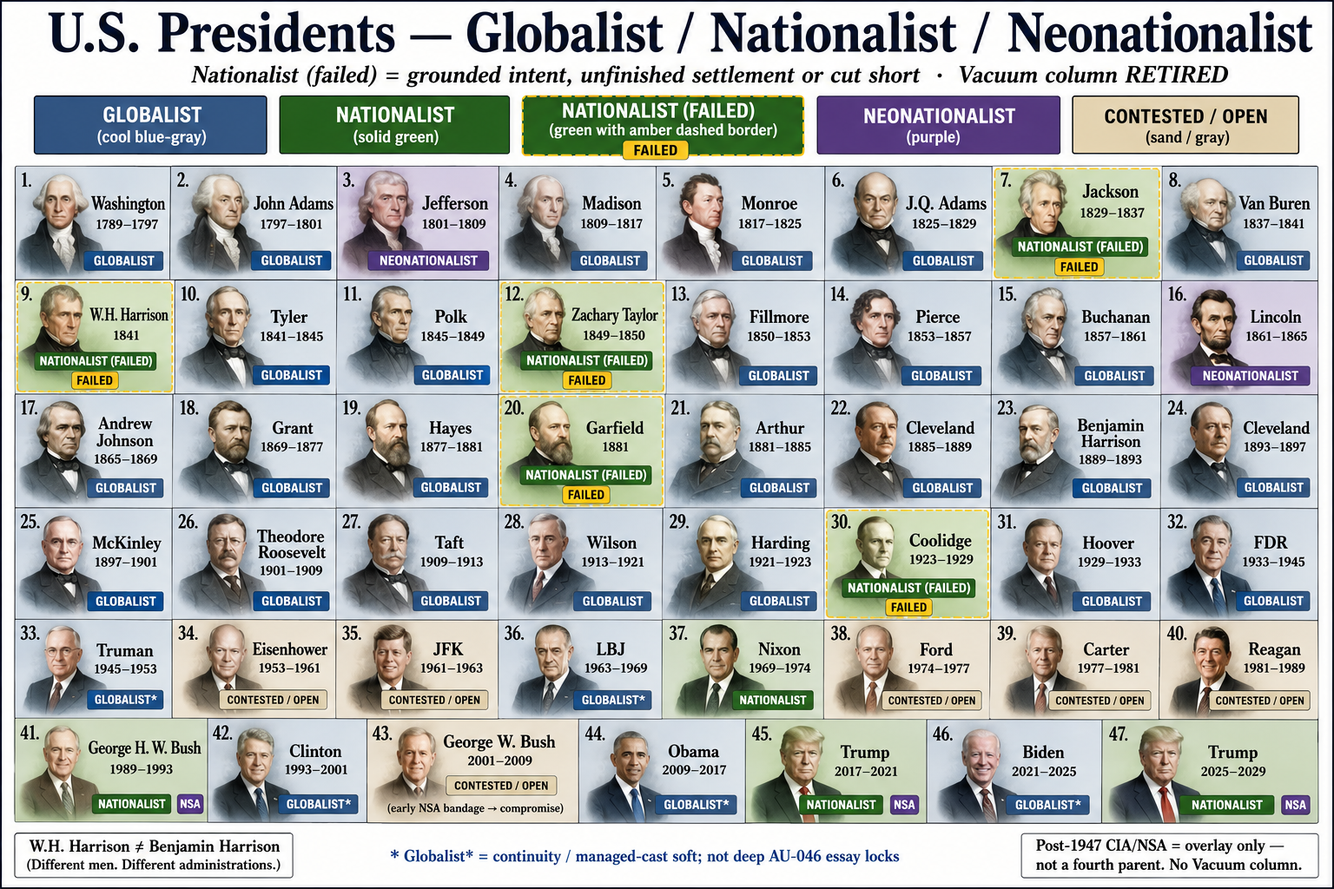
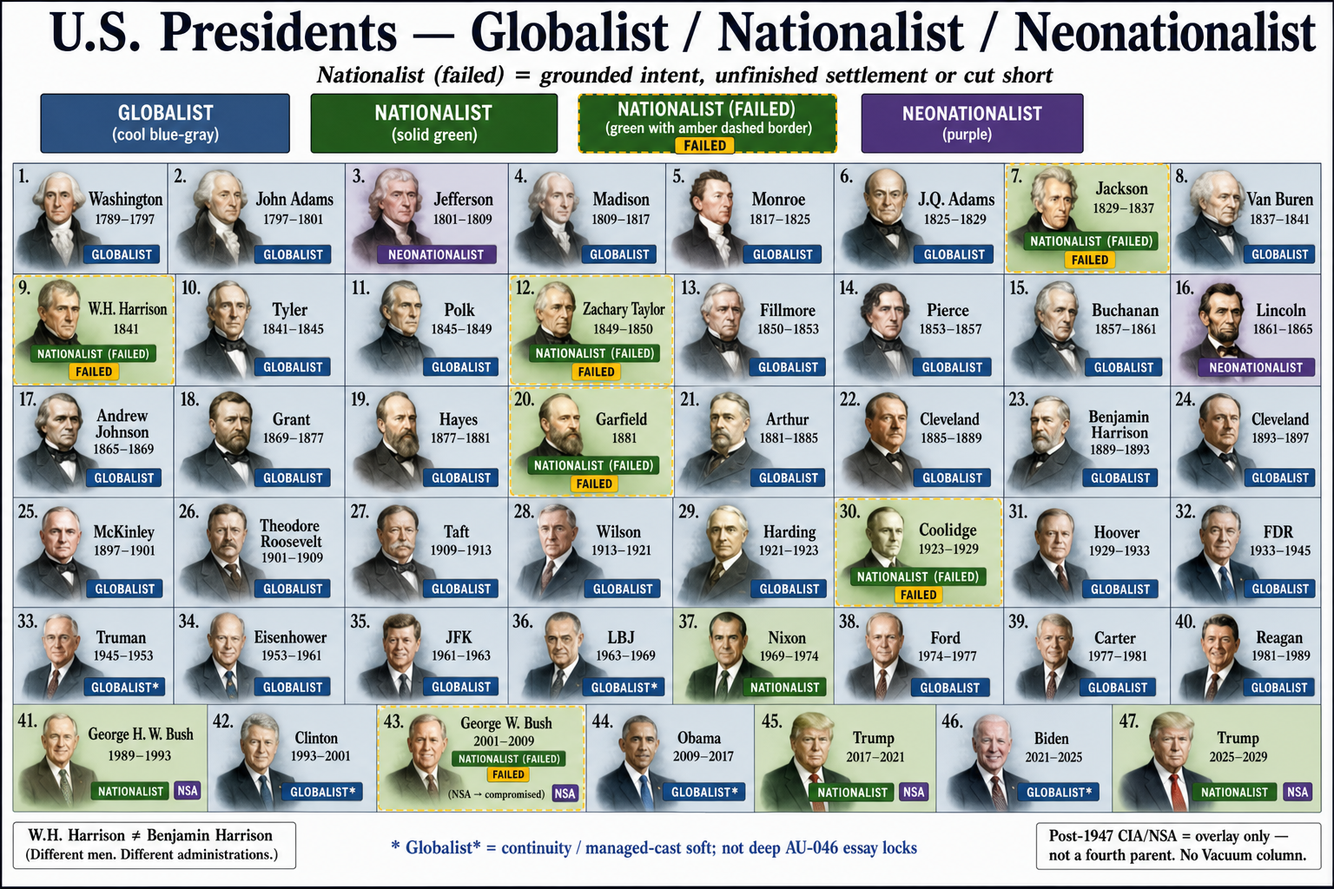
Retire Contested/Open; lock Ike/JFK/Reagan Globalist and GWB Nationalist-failed.
Refresh the AU-046 wall chart and hubs so Ford↔Carter read as rocking Globalists and George W. Bush scores NSA-aligned Nationalist who failed by compromise.

diff --git a/governance/war/investigations/presidential-alignment-globalist-vs-nationalist-investigation.md b/governance/war/investigations/presidential-alignment-globalist-vs-nationalist-investigation.md
@@ -1,18 +1,18 @@
 # Investigation: Presidential Alignment — Globalist vs Nationalist
 
-> **TL;DR:** Master taxonomy = **Globalist vs Nationalist** (+ **Neonationalist**: Jefferson, Lincoln). **Vacuum parent column retired** — cut-short tips that looked like fall-guy Vacuums score **Nationalist (failed)** (§10.1b). **Wall chart:** [`presidential-alignment-scorecard-au046.png`](/governance/war/presidential-alignment-scorecard-au046.png) (§10.0). **Rocking:** Cleveland↔Benjamin Harrison (§2.4). **Nationalist∩NSA** + sin-eater (§9). **Locks:** Washington/Adams Globalist; Jefferson+Lincoln Neonationalist; Madison→Buchanan Globalist **except Jackson** + **W.H. Harrison / Taylor** Nationalist (failed); **Garfield / Coolidge** Nationalist (failed); Johnson–Arthur (ex-Garfield) + Cleveland/B. Harrison + Harding + Progressive empire + Hoover + FDR Globalist; **Nixon / GHWB / Trump Nationalist**; GWB bandage→Epstein→Obama. Reader: [**Nationalists who failed**](/governance/war/nationalists-who-failed.md). Depression → **AU-047**. **AU-046.**
+> **TL;DR:** Master taxonomy = **Globalist vs Nationalist** (+ **Neonationalist**: Jefferson, Lincoln). **Wall chart:** [`presidential-alignment-scorecard-au046.png`](/governance/war/presidential-alignment-scorecard-au046.png) (§10.0). **Rocking:** Cleveland↔Benjamin Harrison; **Ford↔Carter** (§2.4). **Nationalist∩NSA** + sin-eater (§9). **Locks:** Washington/Adams Globalist; Jefferson+Lincoln Neonationalist; Madison→Buchanan Globalist **except Jackson** + **W.H. Harrison / Taylor** Nationalist (failed); **Garfield / Coolidge** Nationalist (failed); Johnson–Arthur (ex-Garfield) + Cleveland/B. Harrison + Harding + Progressive empire + Hoover + FDR Globalist; **Eisenhower / JFK / Reagan Globalist**; **Ford / Carter rocking Globalist**; **Nixon / GHWB / Trump Nationalist**; **GWB = Nationalist (failed) + NSA** (bandage then Epstein compromise). Reader: [**Nationalists who failed**](/governance/war/nationalists-who-failed.md). Depression → **AU-047**. **AU-046.**
 
-**Status:** Open — major scorecard parent locks in; research Qs (census cites, Lincoln plaque, etc.) still hunting; master graphic deferred until art pass.
+**Status:** Open — major scorecard parent locks in; research Qs (census cites, Lincoln plaque, etc.) still hunting.
 
 
-**Last updated:** 2026-08-07 — Wall chart shipped (§10.0); Vacuum retired; W.H. Harrison / Taylor / Garfield Nationalist (failed); Coolidge quote bank + reader article
+**Last updated:** 2026-08-07 — Contested/Open retired; Eisenhower/JFK/Reagan Globalist; Ford↔Carter rocking Globalist; GWB Nationalist (failed)+NSA; chart refreshed
 
 ---
 
 ## Guide (read order)
 
 1. Session capture — [§1](#1-authors-originating-thesis)
-2. Vocabulary — Nationalist / **Neonationalist** / Globalist / **Vacuum retired** / **puppet witting (§2.2)** / **immune kill (§2.3)** — [§2](#2-vocabulary--globalist--nationalist--neonationalist-nsa-cia-overlay)
+2. Vocabulary — Nationalist / **Neonationalist** / Globalist / **puppet witting (§2.2)** / **immune kill (§2.3)** / rocking (§2.4) — [§2](#2-vocabulary--globalist--nationalist--neonationalist-nsa-cia-overlay)
 3. Founding fork — Washington + **Jefferson** + **John Adams foil** — [§3](#3-founding-fork--washington-closed-door-federal-parchment)
 4. TONA window — Madison→Buchanan Globalist continuity (**Jackson** Nationalist-failed exception §4.4) — [§4](#4-tona-window--madison--buchanan-globalist-continuity-vacuum-bar-fails)
 5. Civil War / Lincoln — [§5](#5-civil-war--lincoln) (stature · **Black-identity inventory §5.3** · alignment)
@@ -97,6 +97,8 @@ Jefferson is **not** scored Nationalist despite pluralistic / proto-party fights
 
 **High-profile pawn rhyme:** Same family of motion as **Saddam** / **Hitler**-class seesaw assets — spectacular rise → strict consolidation / authority over populations fooled → wreck or blame theater ([AU-045 Saddam seesaw](/governance/war/investigations/presidency-decoupling-pattern-eisenhower-to-trump-investigation.md#123-saddam-seesaw-puppet--definitely-real-gold)). Cleveland and Harrison **engaged** the rocking as visible poles; they may not have realized full damage (**philosophically unwitting** on outcomes) while **passionately** arguing their eras. Parent: **Globalist** (both).
 
+**Ford ↔ Carter (Author lock 2026-08-07):** Same rocking grammar after Nixon. Soft history sells post-Watergate recovery rivalry. Parent for both: **Globalist** rocking poles — back-and-forth on a compromised board, not blank tips and not Nationalist repair.
+
 **Condition lock — only when both sides are fully compromised:** Rocking is **possible only** when **both** poles are under control. Otherwise a **rational human — or even an animal** — would sense the seesaw early and **get off**. Uncompromised tips break the motion.
 
 **Not rocking (antibody / repair grammar):**
@@ -104,10 +106,9 @@ Jefferson is **not** scored Nationalist despite pluralistic / proto-party fights
 | Specimen | Why not rocking |
 |----------|-----------------|
 | **Nixon** | Not a pole in a managed duel. Tried to **repair Asia damage** done under **Kennedy / Johnson**; grounded Nationalist tip — Watergate containment, not seesaw attrition ([AU-039](/governance/war/investigations/nsa-aligned-presidencies-nixon-reagan-trump-investigation.md)) |
-| **Ford (after Nixon)** | Not the opposite rocking pole either — contested tip years, not Cleveland↔Harrison alternation |
 | **NSA / antibody plans** | When an **antibody** plan is live, it is often so strong in the **revelation-of-the-method** sense that there is **no way to rock it** — the public is forced to see a real fork, not two fake neo-sides. Rocking returns when both party tickets are owned again |
 
-**Other rhyme specimens (Author catalog — not all locked as full Cleveland pairs):** modern **bipartisan** “nothing major / same agenda” theater (war authorizations, surveillance stacks, bailout continuity); managed Dem↔Rep brand fights that leave Fed / empire / Title-class machinery untouched. **Hoover → FDR** is **not** classic rocking — it is **one-way Globalist deepening** (tariff/tax/relief dogma into New Deal fishery), not a popular sweep that later returns the prior pole unchanged. Scorecard: [§10](#10-master-scorecard-stubs).
+**Other rhyme specimens (Author catalog — not all locked as full Cleveland pairs):** modern **bipartisan** “nothing major / same agenda” theater (war authorizations, surveillance stacks, bailout continuity); managed Dem↔Rep brand fights that leave Fed / empire / Title-class machinery untouched. **Hoover → FDR** is **not** classic rocking — it is **one-way Globalist deepening** (tariff/tax/relief dogma into New Deal fishery), not a popular sweep that later returns the prior pole unchanged. **Eisenhower** and **JFK** score **Globalist** on argued machine/war-state continuity — **not** a Ford↔Carter rocking pair. **Reagan** scores **Globalist** (CIA-carrier / RINO turn lean — [AU-045 §8](/governance/war/investigations/presidency-decoupling-pattern-eisenhower-to-trump-investigation.md#8-reagan-revolution--planned-cast-voter-conversion-rino-turn)). Scorecard: [§10](#10-master-scorecard-stubs).
 
 **Falsifiers:** A true two-pole alternation that delivers **lasting** Nationalist rights geometry (natives included / limited federal / keep-word) would break the “nothing major accomplished” giveaway.
 
@@ -377,7 +378,7 @@ Do **not** re-litigate Truman→Trump here. Point:
 |-----|--------|---------|------|
 | **Nixon** | **Nationalist** | **None / not NSA-aligned** | Pure Nationalist; NSA still waking (often CIA-order cleanup). Priorities **inverted** after resignation threat. **Pentagon Papers** SCOTUS lane = early antibody win; Watergate cited to **absolve Ellsberg** — Nixon on the wrong end of rising antibody law. His containment taught NSA-aligned entities why **both parties** would need rules + sin-eating in a blackmail-compromised government. |
 | **GHW Bush** | **Nationalist** | **NSA-aligned** | Antibody **born inside** CIA disease who chose to fight. **1991** = Nationalist tip running **necessary containment / sin-eater** on a **board CIA lit** (dinar / settlement war) — not “CIA product tip.” Kept America’s interests even when media made them unsayable; feared **Clinton** chaos-for-order cast. |
-| **G.W. Bush** | Contested → **compromised** (open) | **NSA-aligned family** early | **2001–~2005 = strong NSA bandage** (§9.1a): Tonkin/Hanyok declass, Mars RV daylight fight, PP culture push that mostly failed. Mid/late term ruined — Author: **Epstein blackmail compromise** is the fit that explains collapse **while still in office**; enables next tips; **Obama** already prepared as automated ideology cast. |
+| **G.W. Bush** | **Nationalist (failed)** | **NSA-aligned** | **2001–~2005 = strong NSA bandage** (§9.1a): Tonkin/Hanyok declass, Mars RV daylight fight, PP culture push that mostly failed. Mid/late term ruined — Author: **Epstein blackmail compromise** owns the tip **while still in office**; that compromise is the failure mode (not cut-short death, not Jackson-class money foresight alone). Enables next tips; **Obama** already prepared as automated ideology cast. |
 | **Trump** | **Nationalist** | **NSA-aligned** | Every action for America + **kept word** — not Vacuum puppet, not Globalist CO. Epstein-network hinge (tipster / not owned — [Epstein crosslinks §5](/events/false_flag/investigations/epstein-blackmail-network-9-11-crosslinks-investigation.md#5-trump-netanyahu-likud)); public presidency = [*It was the only way*](/governance/war/it-was-the-only-way.md). |
 
 ### 9.1a G.W. Bush — 2001–~2005 NSA “bandage” then Epstein hinge (Author lock 2026-08-07)
@@ -416,7 +417,7 @@ Do **not** re-litigate Truman→Trump here. Point:
 |---------------|------------|-----------------|
 | CIA-aligned / carrier / managed cast | Disease / war-state cast | Often **Globalist** — confirm per row |
 | NSA-aligned / cleanup tip | Antibody inside the disease | **Usually overlaps Nationalist**; may include **sin-eater** beats; never auto-badge without keep-word / America-first read |
-| Contested tip (overlay) | **Overlay only** when neither camp allowed a real tip to voters | Score parent on argued policies / cut-short Nationalist-failed grammar — **not** a Vacuum column |
+| Contested tip (overlay) | **Retired 2026-08-07** — do not use as a parent or legend badge | Score every tip Globalist / Nationalist / Neonationalist (with Nationalist-failed overlay when needed) |
 
 **Graphic caption (required when PNG ships):** *NSA antibody overlaps Nationalist agendas; sin-eater moves are the hinge. CIA/NSA = disease fight inside the machine — chips are not party labels.*
 
@@ -428,7 +429,7 @@ Author fill. Deep essays only where marked; others are lean stubs.
 
 ### 10.0 Wall chart (shipped 2026-08-07)
 
-![U.S. Presidents alignment scorecard — Globalist / Nationalist / Neonationalist; Vacuum retired](/governance/war/presidential-alignment-scorecard-au046.png)
+![U.S. Presidents alignment scorecard — Globalist / Nationalist / Neonationalist](/governance/war/presidential-alignment-scorecard-au046.png)
 
 **File:** [`presidential-alignment-scorecard-au046.png`](/governance/war/presidential-alignment-scorecard-au046.png) · Reader: [Nationalists who failed](/governance/war/nationalists-who-failed.md) · Post-1947 overlay companion: [`cia-nsa-align-president-comparison.png`](/governance/war/cia-nsa-align-president-comparison.png)
 
@@ -436,19 +437,19 @@ Author fill. Deep essays only where marked; others are lean stubs.
 
 | Check | Result |
 |-------|--------|
-| Three parents only; **Vacuum retired** | **Pass** — legend + footer |
+| Three parents only; no Contested/Open legend | **Pass** |
 | **Neonationalist** = Jefferson + Lincoln only | **Pass** |
-| **Nationalist (failed)** = Jackson, W.H. Harrison, Taylor, Garfield, Coolidge | **Pass** — FAILED border tag |
-| **Nationalist** = Nixon; GHWB + Trump (+ NSA chip); no NSA on Nixon | **Pass** |
-| **GWB** Contested + early NSA bandage → compromise note | **Pass** |
+| **Nationalist (failed)** = Jackson, W.H. Harrison, Taylor, Garfield, Coolidge, **GWB** | **Pass** — FAILED border; GWB + NSA chip |
+| **Nationalist** = Nixon (no NSA); GHWB + Trump (+ NSA) | **Pass** |
+| **Eisenhower / JFK / Reagan** Globalist | **Pass** |
+| **Ford / Carter** Globalist (rocking pair) | **Pass** |
 | **W.H. Harrison ≠ Benjamin Harrison** footer | **Pass** |
-| Cleveland ×2 (terms) + B. Harrison Globalist rocking | **Pass** |
-| Contested/Open = Eisenhower, JFK, Ford, Carter, Reagan (+ GWB) | **Pass** |
-| Soft **Globalist\*** = Truman, LBJ, Clinton, Obama, Biden (not deep essay locks) | **Pass** — footnote matches desk |
-| Dual Trump cells (2017–21 + 2025–) | **Accept** — calendar continuity; same Nationalist+NSA parent |
-| Invented counts / fake Vacuum / wrong Neonationalist sprawl | **None found** |
+| Cleveland ×2 + B. Harrison Globalist rocking | **Pass** |
+| Soft **Globalist\*** = Truman, LBJ, Clinton, Obama, Biden | **Pass** |
+| Dual Trump cells (2017–21 + 2025–) | **Accept** — same Nationalist+NSA parent |
+| Contested/Open cells remaining | **None found** |
 
-**Open after chart (unchanged):** Eisenhower / JFK / Ford / Carter / Reagan parent essays; Biden soft Globalist\* only; GWB parent still Contested.
+**Open after chart:** deep parent essays for Eisenhower / JFK / Reagan; Biden remains soft Globalist\* only.
 
 | President / era | Lean (stub) | Notes |
 |-----------------|-------------|-------|
@@ -456,18 +457,22 @@ Author fill. Deep essays only where marked; others are lean stubs.
 | **Jefferson** | **Neonationalist** | Pure limited-gov / plurality vision; **disqualified** by Declaration savages + native/apartheid hole |
 | **John Adams** | **Globalist** | Jefferson’s Federalist **foil**; Sedition/centralizing lean; Federalist↔Democrat eventually **intertwined** into shared federal/world-order vision — **not** sovereign-citizen rights orientation (§3.4) |
 | **Jackson** | **Nationalist (failed)** | Grounded Bank War intent; no durable crisis solution — central bank returns later; Removal = inclusion failure; **not** Globalist puppet — §4.4. Black-identity/whitewash Author/open |
-| **W.H. Harrison / Taylor / Garfield** | **Nationalist (failed)** | Cut short by death; unfinished missions; early deep-state lesson — soft “Vacuum fall guy” packaging retired → §10.1b |
+| **W.H. Harrison / Taylor / Garfield** | **Nationalist (failed)** | Cut short by death; unfinished missions; early deep-state lesson — §10.1b |
 | **Madison–Buchanan (TONA window)** | **Globalist** (except **Jackson**, **W.H. Harrison**, **Taylor**) | Passionate era tips; failed sovereign/TONA reset — §4; cut-short exceptions §10.1b |
 | **Lincoln** | **Neonationalist** | New America-vision; white-to-blame war read; post-CW race-blind **under federal**; not slavery-causation (Author); carceral XIII / forced-war parallel; §5.4 |
 | **Coolidge** | **Nationalist (failed)** | Blocked Fed/Congress stock-power grab; popular tip exits 1927 (“I do not choose to run”) — suspicious for Depression fork; **not** Globalist neglect — §10.1a |
 | **Gilded → Progressive (§10.1)** | **Mostly Globalist** | Johnson–Arthur (**ex-Garfield**) + **Cleveland/B. Harrison rocking** + McKinley–Wilson + Harding Globalist; **Coolidge** + **Garfield** exceptions |
-| **Herbert Hoover** | **Globalist** | Owns Smoot-Hawley / 1932 taxes / limited-relief dogma he argued hard; sincerity ≠ Vacuum ([§7.2a](#72a-herbert-hoover--globalist-author-lock-2026-08-07)); Fed board detail → [AU-047](/governance/genocide/investigations/great-depression-planned-genocide-fed-census-consolidation-investigation.md) |
+| **Herbert Hoover** | **Globalist** | Owns Smoot-Hawley / 1932 taxes / limited-relief dogma he argued hard; sincerity ≠ blank tip ([§7.2a](#72a-herbert-hoover--globalist-author-lock-2026-08-07)); Fed board detail → [AU-047](/governance/genocide/investigations/great-depression-planned-genocide-fed-census-consolidation-investigation.md) |
 | **FDR** | **Globalist** | New Deal state; war entry; health concealment |
 | **J. Edgar Hoover (FBI)** | **Globalist institution** | Body remover; not a president |
-| Truman→Trump | Parent + **CIA/NSA overlay** (§9) | **Nixon** Nationalist (no NSA); **GHWB + Trump** Nationalist+NSA; GWB NSA-family → compromise open; NSA alone ≠ auto-Nationalist; sin-eater named when needed |
+| **Eisenhower** | **Globalist** | CIA weaponization / Ajax / political-warfare continuity — [AU-045](/governance/war/investigations/presidency-decoupling-pattern-eisenhower-to-trump-investigation.md) |
+| **JFK** | **Globalist** | Machine/war-state continuity tip; detail fights are distraction — prefer [JFK article](/events/jfk/jfk-was-never-assassinated.md) |
+| **Ford / Carter** | **Globalist** (rocking) | Post-Nixon seesaw pair — §2.4 |
+| **Reagan** | **Globalist** | CIA-carrier / RINO turn lean — [AU-045 §8](/governance/war/investigations/presidency-decoupling-pattern-eisenhower-to-trump-investigation.md#8-reagan-revolution--planned-cast-voter-conversion-rino-turn) |
+| Truman→Trump | Parent + **CIA/NSA overlay** (§9) | **Nixon** Nationalist (no NSA); **GHWB + Trump** Nationalist+NSA; **GWB** Nationalist (failed)+NSA; NSA alone ≠ auto-Nationalist; sin-eater named when needed |
 | **Nixon** | **Nationalist** | No real NSA alignment; Watergate / Ellsberg chronology — §9.1 |
 | **GHW Bush** | **Nationalist** + **NSA** | Sin-eater tip on CIA-lit 1991 board — §9.1 · [AU-045 §10](/governance/war/investigations/presidency-decoupling-pattern-eisenhower-to-trump-investigation.md#10-ghw-bush--nationalist-tip-nsa-sin-eater-on-cia-lit-board) |
-| **G.W. Bush** | Contested / compromised (open) + early **NSA** | **2001–~2005 bandage** then Epstein hinge — §9.1a |
+| **G.W. Bush** | **Nationalist (failed)** + **NSA** | Bandage then Epstein compromise failure — §9.1a |
 | **Trump** | **Nationalist** + **NSA** | Keep-word America-first; Epstein tipster hinge; [*It was the only way*](/governance/war/it-was-the-only-way.md) |
 
 ### 10.1 Gilded → Progressive — split lock (Author, revised 2026-08-07)
@@ -550,7 +555,7 @@ Soft history truncates him to Silent Cal + “business of America.” Keep the *
 
 **Reader:** [Nationalists who failed](/governance/war/nationalists-who-failed.md).
 
-**Graphic:** shipped — [`presidential-alignment-scorecard-au046.png`](/governance/war/presidential-alignment-scorecard-au046.png) (§10.0). Three parent columns + Contested/Open + NSA overlay chips; Vacuum retired.
+**Graphic:** shipped — [`presidential-alignment-scorecard-au046.png`](/governance/war/presidential-alignment-scorecard-au046.png) (§10.0). Three parent camps + Nationalist-failed overlay + NSA chips; Contested/Open legend removed.
 
 ---
 
@@ -686,7 +691,8 @@ Keywords: #PresidentialAlignment #Globalist #Nationalist #Neonationalist #Jeffer
 - Session 2026-08-07 (later): **Coolidge → Nationalist (failed)** — refused Fed/Congress stock regulation as power grab vs states; soft history inverts to Depression villain; *I do not choose to run* (1927) while popular = suspicious forced exit; Hoover remains Globalist.
 - Session 2026-08-07 (later): Coolidge **quote bank** in §10.1a; reader article [nationalists-who-failed.md](/governance/war/nationalists-who-failed.md).
 - Session 2026-08-07 (later): **Vacuum column retired**; **W.H. Harrison / Taylor / Garfield → Nationalist (failed)** — cut-short missions; deep-state lesson Americans couldn’t really run for president; soft fall-guy Vacuum packaging inverted; B. Harrison stays Globalist rocking.
-- Session 2026-08-07 (later): Wall chart **shipped** — `presidential-alignment-scorecard-au046.png`; audit pass §10.0 (locks match; soft Globalist\* + Contested/Open + dual Trump cells noted).
+- Session 2026-08-07 (later): Wall chart **shipped** — `presidential-alignment-scorecard-au046.png`; audit pass §10.0 (locks match; soft Globalist\* + dual Trump cells noted).
+- Session 2026-08-07 (later): **Contested/Open retired** — Eisenhower / JFK / Reagan = **Globalist**; Ford↔Carter = **rocking Globalist**; **GWB = Nationalist (failed) + NSA** (compromise failure); chart refreshed.
 - Session 2026-08-06 (later): **John Adams = Globalist** — Jefferson foil; Federalist↔Democrat intertwine → world-order vision, not sovereign-citizen rights.
 - Session 2026-08-06 (later): Gilded→Progressive **Option D** — Vacuum majority; McKinley/TR/Taft/Wilson **Globalist** (Wilson hard).
 - Graphic deferred until author art pass (parent locks dense enough).

diff --git a/governance/war/nationalists-who-failed.md b/governance/war/nationalists-who-failed.md
@@ -3,7 +3,7 @@
 
 Soft history has a habit of renaming America-first presidents as villains of neglect — or as blank “fall guys” whose terms barely count. The ones who fought the money board get remembered as the men who “failed to regulate,” as if handing the Federal Reserve more power would have saved the country. The ones who died early get remembered as empty chairs. Both stories are backwards. A Nationalist tip does what it said for the people under the flag. When that tip lacks foresight, or when death and board pressure cut the mission short, the machine returns. Call that badge **Nationalist who failed**. It is not a Globalist puppet wearing nationalist branding. It is grounded intent that did not stick.
 
-The presidents who matter to this argument are the ones who fought the money fight, got cut short teaching Americans they could not really run the chair, inverted power into federal consolidation, or later proved what durable Nationalist foresight looks like. William Henry Harrison, Zachary Taylor, and James A. Garfield sit with Jackson and Coolidge as Nationalists who failed — cut short before the mission could finish.
+The presidents who matter to this argument are the ones who fought the money fight, got cut short teaching Americans they could not really run the chair, inverted power into federal consolidation, got compromised mid-term, or later proved what durable Nationalist foresight looks like. William Henry Harrison, Zachary Taylor, and James A. Garfield sit with Jackson and Coolidge as Nationalists who failed — cut short before the mission could finish. George W. Bush sits with them too — NSA-aligned, then owned by compromise.
 
 ![U.S. Presidents — Globalist / Nationalist / Neonationalist scorecard](https://paradigmthreat.net/governance/war/presidential-alignment-scorecard-au046.png)
 
@@ -53,13 +53,17 @@ A tip that mattered this much to later events does not casually walk away withou
 
 Not every Globalist tip is a blank chair. Grover Cleveland and Benjamin Harrison swapped the White House three times from 1885 to 1897 while the economy convulsed. Soft history sells rivalry. The colder pattern is rocking. Two compromised poles exhaust the public. Power flips by attrition. Nothing major is delivered for the people while similar Globalist agendas advance under both brands. In 1893 Cleveland repealed the Sherman Silver Purchase Act and sold it as gold-reserve defense. The colder read is an early kill of a domestic silver challenger to gold monopoly. That rhyme shows up later whenever a ruble path or a gold-dinar challenger threatens the creditor OS.
 
+Ford and Carter run the same rocking grammar after Nixon. Soft history sells post-Watergate recovery rivalry. Both score Globalist. The bounce is the point.
+
 Hoover into Roosevelt is not that bounce. It is one-way Globalist deepening. First the crash. Then tariff and tax dogma. Then the New Deal fishery. Take away the ability to fish. Sell the fish under federal terms. Both men believed their dogma. Neither was a Nationalist repair tip. The living already named the Fed. Later textbooks converted that knowledge into “they didn’t understand.”
 
 ## Tips that kept word later
 
-The category did not die with Coolidge. Richard Nixon tried to repair Asia damage done under Kennedy and Johnson, and he was not a rocking pawn. Watergate removed a tip who would not stay compliant. George H. W. Bush ran Nationalist priorities on a board the covert war-state had already lit. Some of that work was necessary containment — sin-eater dirt that kept cleaner Nationalist wins possible later. Donald Trump kept word, built his own network, and cleared the foresight bar the failed Nationalists missed. George W. Bush is a different story. His early-2000s disclosure fight reads as an NSA bandage that later collapses into compromise of the tip, not a clean Nationalist column.
+The category did not die with Coolidge. Richard Nixon tried to repair Asia damage done under Kennedy and Johnson, and he was not a rocking pawn. Watergate removed a tip who would not stay compliant. George H. W. Bush ran Nationalist priorities on a board the covert war-state had already lit. Some of that work was necessary containment — sin-eater dirt that kept cleaner Nationalist wins possible later. Donald Trump kept word, built his own network, and cleared the foresight bar the failed Nationalists missed.
 
-Those later tips prove the category is real. Jackson and Coolidge prove it can lose on the money board. Harrison, Taylor, and Garfield prove it can be interrupted before the fight finishes.
+George W. Bush is a Nationalist who failed with an NSA chip. The early years read as a strong NSA bandage — disclosure fights, Tonkin truth pressure, culture pushes that mostly did not stick. Then the tip was compromised while still in office. Epstein blackmail is the hinge that fits. That is not a clean Nationalist column. It is Nationalist intent ruined by capture — the same failed badge as Jackson and Coolidge, different failure mode.
+
+Those later tips prove the category is real. Jackson and Coolidge prove it can lose on the money board. Harrison, Taylor, and Garfield prove it can be interrupted before the fight finishes. George W. Bush proves it can be owned mid-term.
 
 ## Where next
 
@@ -69,7 +73,7 @@ The companion dossier for parent badges and the wall-chart audit is the [preside
 
 This page assumes [prisca sapientia](https://paradigmthreat.net/docs/PRISCA_SAPIENTIA.md): ancient and early modern political wisdom is not automatically inferior to modern consensus packaging. Parent badges and Coolidge quote pins live in the [alignment investigation](https://paradigmthreat.net/governance/war/investigations/presidential-alignment-globalist-vs-nationalist-investigation.md). Depression mechanism and census fights live in the [Depression companion](https://paradigmthreat.net/governance/genocide/investigations/great-depression-planned-genocide-fed-census-consolidation-investigation.md). The all-presidents wall chart is embedded above. The dossier holds the [chart audit](https://paradigmthreat.net/governance/war/investigations/presidential-alignment-globalist-vs-nationalist-investigation.md#100-wall-chart-shipped-2026-08-07).
 
-Keywords: #NationalistsWhoFailed #CalvinCoolidge #AndrewJackson #WilliamHenryHarrison #ZacharyTaylor #JamesGarfield #BankWar #FederalReserve #GreatDepression #PresidentialAlignment #Globalist #Nationalist #Neonationalist #HerbertHoover #FDR #AU046 #ParadigmThreatFiles
+Keywords: #NationalistsWhoFailed #CalvinCoolidge #AndrewJackson #WilliamHenryHarrison #ZacharyTaylor #JamesGarfield #GeorgeWBush #BankWar #FederalReserve #GreatDepression #PresidentialAlignment #Globalist #Nationalist #Neonationalist #HerbertHoover #FDR #AU046 #ParadigmThreatFiles
 
 **Last updated:** 2026-08-07
 

diff --git a/governance/war/investigations/page.md b/governance/war/investigations/page.md
@@ -22,7 +22,7 @@ Atlantic context, societized consolidation, British funding, Western orchestrati
 | [zelensky-open-letter-reality-model-investigation.md](/governance/war/investigations/zelensky-open-letter-reality-model-investigation.md) | **Open:** Zelensky **4 Jun 2026** open letter — reality model, TA, *Servant of the People* media-coup, drug disinfo, belly-dance rumor, kompromat author thesis |
 | [zelensky-forward-history-memory-war.md](/governance/war/zelensky-forward-history-memory-war.md) | **Article:** Letter as memory weapon — TA main section, Holodomor/Holocaust memory on same soil, reverse-crusade figurehead |
 | [managed-democracy-puppets-and-redemption.md](/governance/war/managed-democracy-puppets-and-redemption.md) | **Article:** Managed democracy manifesto — *House of Cards* grammar, Obama/RINO puppet slots, Epstein two-axis, DINO symmetry, Christian redemption exit; links RINO + Obama dossiers |
-| [nationalists-who-failed.md](/governance/war/nationalists-who-failed.md) | **Article (Aug 2026):** Jackson + Coolidge + cut-short tips (**W.H. Harrison / Taylor / Garfield**) as **Nationalist who failed**; companion **AU-046** |
+| [nationalists-who-failed.md](/governance/war/nationalists-who-failed.md) | **Article (Aug 2026):** Jackson + Coolidge + cut-short tips + **GWB (NSA, compromised)** as **Nationalist who failed**; Ford↔Carter rocking Globalist; companion **AU-046** |
 | [it-was-the-only-way.md](/governance/war/it-was-the-only-way.md) | **Article (Aug 2026):** *Infinity War* — Strange gives up power so Tony lives; Trump as Tony; Thanos as force/cull; party bargain; companion to presidency decoupling **AU-045** |
 | [the-great-depression-was-planned.md](/governance/war/the-great-depression-was-planned.md) | **Article (Aug 2026):** Depression was planned — off-books influencers, two-camp dogma, New Deal fishery, Ukraine pogroms→Holodomor→WWIII close; companion **AU-047** |
 | [operation-paperclip-nazi-continuity-and-wwii-narrative-investigation.md](/governance/war/investigations/operation-paperclip-nazi-continuity-and-wwii-narrative-investigation.md) | Paperclip and parallel programs (Gehlen, Ratlines, Unit 731 immunity); Eastern Front / Soviet “existential” angle; Hitler–Argentina allegation layer; media (Cap, Hydra); Ukraine / European far-right as downstream of “save the asset” logic |
@@ -37,7 +37,7 @@ Atlantic context, societized consolidation, British funding, Western orchestrati
 | [nsa-investigation.md](/governance/war/investigations/nsa-investigation.md) | SIGINT antibody; **MINARET** / Church Committee; Gulf of Tonkin / **Hanyok**; **Tron theory** (1982 MCP=CIA); 1980s holy-war pivot (author) |
 | [nsa-aligned-presidencies-nixon-reagan-trump-investigation.md](/governance/war/investigations/nsa-aligned-presidencies-nixon-reagan-trump-investigation.md) | **Open (Jul 2026):** NSA-aligned presidencies — Republican gauge; Nixon grounded / Watergate containment; Reagan Hollywood construct + Russia-war board; Trump NSA plan; ***BTTF* 1–2** NSA catalog; PATCO + ***Airplane*** incompetence attack lane |
 | [presidency-decoupling-pattern-eisenhower-to-trump-investigation.md](/governance/war/investigations/presidency-decoupling-pattern-eisenhower-to-trump-investigation.md) | **Open (Aug 2026):** Presidency decoupling — Eisenhower CIA/Ajax origin; JFK→Trump cast-vs-base; gold OS; Reagan RINO/New Federalism; oil/dinar wars; *Infinity War* Trump=Tony; **AU-045** |
-| [presidential-alignment-globalist-vs-nationalist-investigation.md](/governance/war/investigations/presidential-alignment-globalist-vs-nationalist-investigation.md) | **Open (Aug 2026):** All-era **Globalist vs Nationalist** (+ Neonationalist); wall chart [`presidential-alignment-scorecard-au046.png`](/governance/war/presidential-alignment-scorecard-au046.png); **Nationalist (failed)** = Jackson, Coolidge, W.H. Harrison/Taylor/Garfield; reader: [Nationalists who failed](/governance/war/nationalists-who-failed.md); **AU-046** |
+| [presidential-alignment-globalist-vs-nationalist-investigation.md](/governance/war/investigations/presidential-alignment-globalist-vs-nationalist-investigation.md) | **Open (Aug 2026):** All-era **Globalist vs Nationalist** (+ Neonationalist); Contested/Open retired; wall chart [`presidential-alignment-scorecard-au046.png`](/governance/war/presidential-alignment-scorecard-au046.png); **Nationalist (failed)** includes GWB; reader: [Nationalists who failed](/governance/war/nationalists-who-failed.md); **AU-046** |
 | [wwii-fascism-religious-apparatus-investigation.md](/governance/war/investigations/wwii-fascism-religious-apparatus-investigation.md) | Why Japan, Italy, Germany became fascist; coup/takeover not popular choice; religious-apparatus thesis — Japan (Jesus-in-Japan, Eastern Christianity), Italy (Catholic gatekeeping, Romanità), Germany (Aryan/Atlantis “final religion”); Deep State new world order |
 | [martyr-word-history-investigation.md](/governance/war/investigations/martyr-word-history-investigation.md) | Etymology of "martyr" (witness); murder/Mars connection (none in standard etymology); strict definition — martyr = held out against mob, torture, fire, kept belief; Jesus first martyr; Crusaders (Revenge Crusade) martyrs; Istanbul apostles/crucifiers not martyrs (Fomenko vs. author); Inquisition as later radicalized context |
 | [pitcairn-bounty-mutiny-sovereignty-and-narratives.md](/governance/war/investigations/pitcairn-bounty-mutiny-sovereignty-and-narratives.md) | *Bounty* mutiny / Pitcairn lore vs SPCK and romance accounts; **§2.1** Bligh in print/Navy vs screen, Tahiti/desertion as suppressed mutiny motor, Cold War packaging hypothesis, mirror to Pitcairn “rescue” vs return waves; **§8.5** Tahitian legal asymmetry and racist “savage” doctrine; **§11 closed synthesis** — 1831–1833 break in Polynesian tribal continuity, redaction/read of women-killing-men canon, Jonestown/anti-utopia pattern, British Empire + CIA narrative-deterrence thesis (manifests still needed); UK OT sovereignty and UN NSGT; 2004 trials and Privy Council jurisdiction; separate 2016 digital CSAM track; media vs court-file research hooks |

diff --git a/history/chronology/investigations/author-unique-theories.md b/history/chronology/investigations/author-unique-theories.md
@@ -62,7 +62,7 @@ Per-investigation **§ Author open claims** blocks remain the **detail** registr
 | **AU-037** | **2020 selective battleground theft** + delay exploit; AZ log denial + spectacle recount; antibodies → **2026** audits; Edison = poisoned-hinge CO; **one-node → network-collapse** virus; midterm legitimacy **all-or-nothing / faith**; **no** institutional-headline faith owed | **partial** (pieces widespread; **full package** author) | [2020 election fraud dossier](/governance/constitution/investigations/2020-election-fraud-selective-battleground-audit-timing-investigation.md) |
 | **AU-039** | **NSA-aligned presidencies gauge** — only **Republican** nominees readable for constituent groundedness; **Nixon** grounded / crook-smear containment; **Reagan** Hollywood construct + CIA/globalist Russia-war play (media = incompetent puppet); **Trump** decades NSA containment plan; ***BTTF* 1–2** NSA; PATCO + ***Airplane*** attack lane | **partial** (Watergate CO / Reagan actor lore / Trump antibody widespread; **three-president gauge + attack-knife inversion package** author) | [NSA-aligned presidencies](/governance/war/investigations/nsa-aligned-presidencies-nixon-reagan-trump-investigation.md) |
 | **AU-045** | **Presidency decoupling pattern** — cast vs base from **Eisenhower CIA weaponization** (Ajax→Iran DU fuse; gold OS) through JFK→Nixon/Watergate→Reagan RINO voter conversion→oil/dinar wars→9/11 antibody→Obama/Hillary/Angry Birds/Cruz fail→***Infinity War*** Trump=Tony / Thanos=Global South–China cull cynicism→Trump NSA cleanup | **partial** (Ajax/Watergate/Reagan brand pieces widespread; **full multi-party decoupling + Tony/Thanos casting + gold-whitewash spine** author) | [Presidency decoupling Eisenhower→Trump](/governance/war/investigations/presidency-decoupling-pattern-eisenhower-to-trump-investigation.md) |
-| **AU-046** | **Presidential alignment** — Neonationalist (Jefferson + Lincoln); **Nationalist (failed):** Jackson, Coolidge, **W.H. Harrison / Taylor / Garfield**; wall chart [`presidential-alignment-scorecard-au046.png`](/governance/war/presidential-alignment-scorecard-au046.png); Coolidge quote bank; reader [Nationalists who failed](/governance/war/nationalists-who-failed.md); Globalist (Washington, Adams, Madison→Buchanan ex-Jackson/W.H. Harrison/Taylor, Johnson–Arthur ex-Garfield, **Cleveland↔B. Harrison rocking**, Harding, McKinley–Wilson, Hoover, FDR); Nationalist (failed tips + Nixon; GHWB+Trump+NSA); GWB bandage→Epstein→Obama; Nationalist∩NSA + sin-eater; Depression → AU-047 | **partial** (research Qs open; chart shipped) | [Presidential alignment Globalist vs Nationalist](/governance/war/investigations/presidential-alignment-globalist-vs-nationalist-investigation.md) |
+| **AU-046** | **Presidential alignment** — Neonationalist (Jefferson + Lincoln); **Nationalist (failed):** Jackson, Coolidge, **W.H. Harrison / Taylor / Garfield**, **GWB (+NSA, compromised)**; wall chart [`presidential-alignment-scorecard-au046.png`](/governance/war/presidential-alignment-scorecard-au046.png); Coolidge quote bank; reader [Nationalists who failed](/governance/war/nationalists-who-failed.md); Globalist (Washington, Adams, Madison→Buchanan ex-Jackson/W.H. Harrison/Taylor, Johnson–Arthur ex-Garfield, **Cleveland↔B. Harrison** + **Ford↔Carter** rocking, Harding, McKinley–Wilson, Hoover, FDR, **Eisenhower, JFK, Reagan**); Nationalist (Nixon; GHWB+Trump+NSA); Nationalist∩NSA + sin-eater; Depression → AU-047 | **partial** (research Qs open; chart shipped; Contested/Open retired) | [Presidential alignment Globalist vs Nationalist](/governance/war/investigations/presidential-alignment-globalist-vs-nationalist-investigation.md) |
 | **AU-047** | **Great Depression planned consolidation** — not negligence; off-books epistemology (§8A); WWI federal-power guise → Fed crash → census whitewash; purposeful neglect; SS federal citizen; Ukraine sequence; New Deal fishery / red tape | **partial** (McFadden/Coughlin/Fed critiques widespread; **purposeful-neglect + census-control + SS-persona + off-books package** author) | [Great Depression — Planned Crash, Census, Purposeful Neglect](/governance/genocide/investigations/great-depression-planned-genocide-fed-census-consolidation-investigation.md) · [**The Great Depression Was Planned** (article)](/governance/war/the-great-depression-was-planned.md) |
 | **AU-041** | **Related FF after 9/11** — France/Vegas as **early NSA/Mossad-aligned** hotspot staging (*Children of Men* preemption); **Oct 7** related FF; **CIA rebrand** via perp-walk truth movements (Gage/Corbett **Bibi walk** specimen) | **partial** (Oct 7 CO / Vegas staging folklore widespread; **hotspot-preemption + rebrand-war package** author) | [Related false flags dossier](/events/false_flag/investigations/related-false-flags-911-oct7-france-vegas-children-of-men-investigation.md); [Gage §12.5](/events/false_flag/investigations/richard-gage-ae911truth-controlled-demolition-investigation.md#125-october-7--bibi-perp-walk-specimen-gage--corbett) |
 

diff --git a/governance/war/investigations/presidency-decoupling-pattern-eisenhower-to-trump-investigation.md b/governance/war/investigations/presidency-decoupling-pattern-eisenhower-to-trump-investigation.md
@@ -46,7 +46,7 @@
 | **Decouple** | Cast ≠ base | JFK trauma federalization; Reagan voter conversion; Obama curated revolutionary |
 | **Reground** | Principal hears actual voters | Nixon Silent Majority / China–détente surface |
 | **Contain** | Scandal/staff-flip exit | Watergate |
-| **Vacuum** | No party allowed real tip | Ford / Carter reception |
+| **Rock** | Compromised poles bounce; nothing major for the people | Ford ↔ Carter (AU-046 §2.4) |
 | **Planned cast** | Popular actor / brand install | Reagan; Clinton; Obama |
 | **Antibody tell** | Fiction names the construct | *BTTF*; *Infinity War* Tony vs Thanos |
 | **Force-guardrail** | Rule-bend to keep tip on rails | GWB Florida; senators/brother geometry |
@@ -61,8 +61,8 @@ flowchart LR
   TrumanCast --> JFK["JFK decouple Dems"]
   JFK --> Nixon["Nixon reground"]
   Nixon --> WG["Watergate"]
-  WG --> Vacuum["Ford Carter vacuum"]
-  Vacuum --> Reagan["Reagan RINO turn"]
+  WG --> Rock["Ford Carter rocking Globalist"]
+  Rock --> Reagan["Reagan RINO turn"]
   Reagan --> BTTF["BTTF antibody"]
   BTTF --> OilWar["GHWB oil dinar war"]
   OilWar --> Clinton["Clinton cast"]
@@ -160,11 +160,11 @@ Cite [JFK §1.2](/events/jfk/investigations/jfk-rfk-staged-assassination-hoax-in
 
 ---
 
-## 7. Ford / Carter — contested tip years (parent not strict Vacuum)
+## 7. Ford / Carter — rocking Globalist poles
 
-**Author:** Both widely received as **ineffective**; neither party allowed a tip regrounded to actual voter intent — someone prevented Americans from having a **real president** from either party. Public unrest risk → board plans **Reagan Revolution** as controlled popular install.
+**Author:** Both widely received as **ineffective**; soft history sells post-Watergate recovery rivalry. Public unrest risk → board plans **Reagan Revolution** as controlled popular install.
 
-**Parent (2026-08-07):** Under **strict Vacuum** ([AU-046 §2](/governance/war/investigations/presidential-alignment-globalist-vs-nationalist-investigation.md)), Ford and Carter still **argued era policies** — not literal do-nothings. Score parent **Globalist** (continuity faces on a compromised board) + overlay **Vacuum / contested** only in the sense that **neither camp allowed a real tip to voters**. Do not file them as blank sponges.
+**Parent (2026-08-07 lock):** **Globalist** rocking pair — same seesaw grammar as Cleveland↔Benjamin Harrison ([AU-046 §2.4](/governance/war/investigations/presidential-alignment-globalist-vs-nationalist-investigation.md#24-rocking-pawns--clevelandharrison-author-lock-2026-08-07)). They **argued era policies** — not blank tips. Contested/Open overlay **retired**; do not file them as a separate camp.
 
 ---
 
